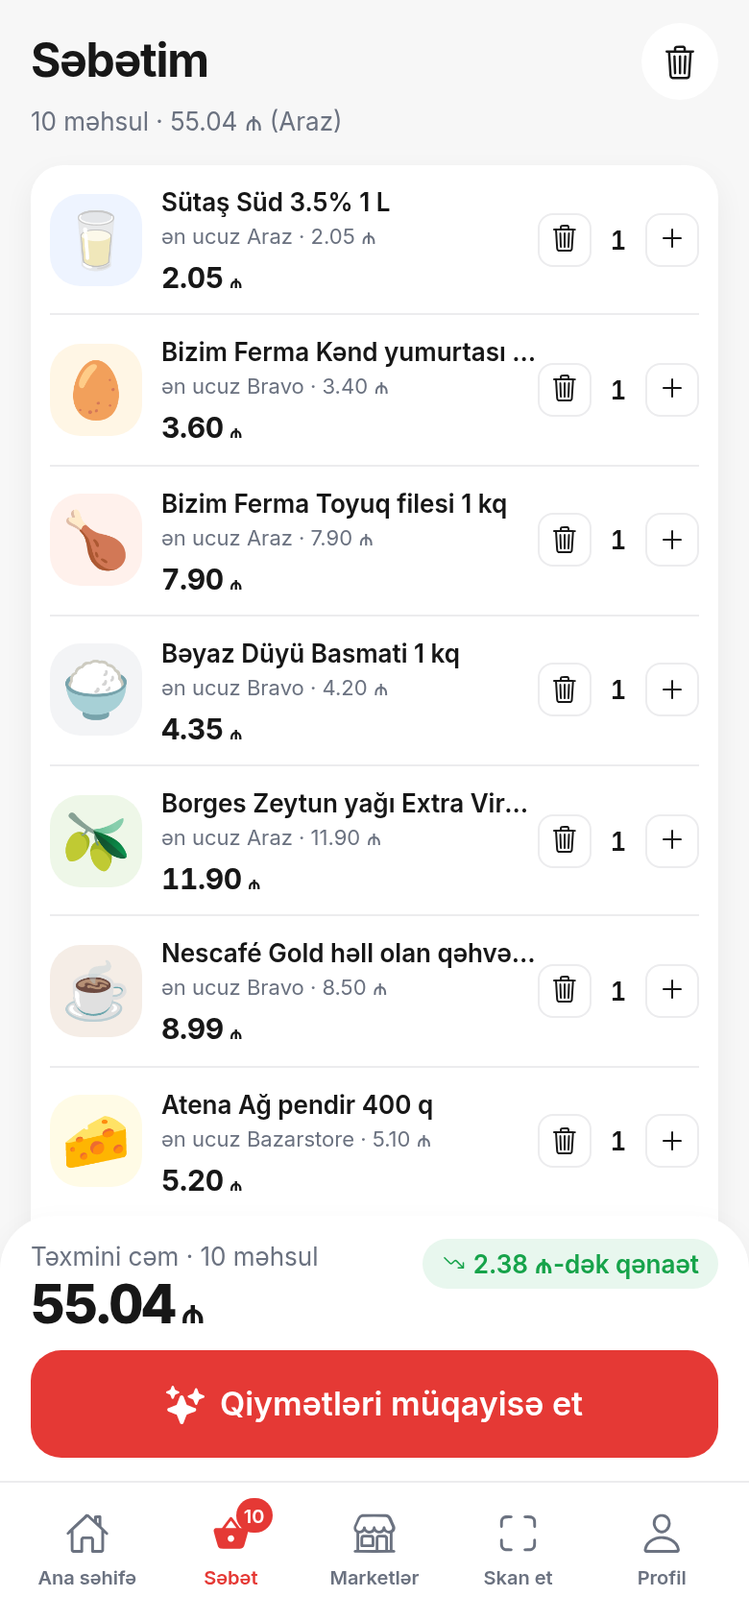
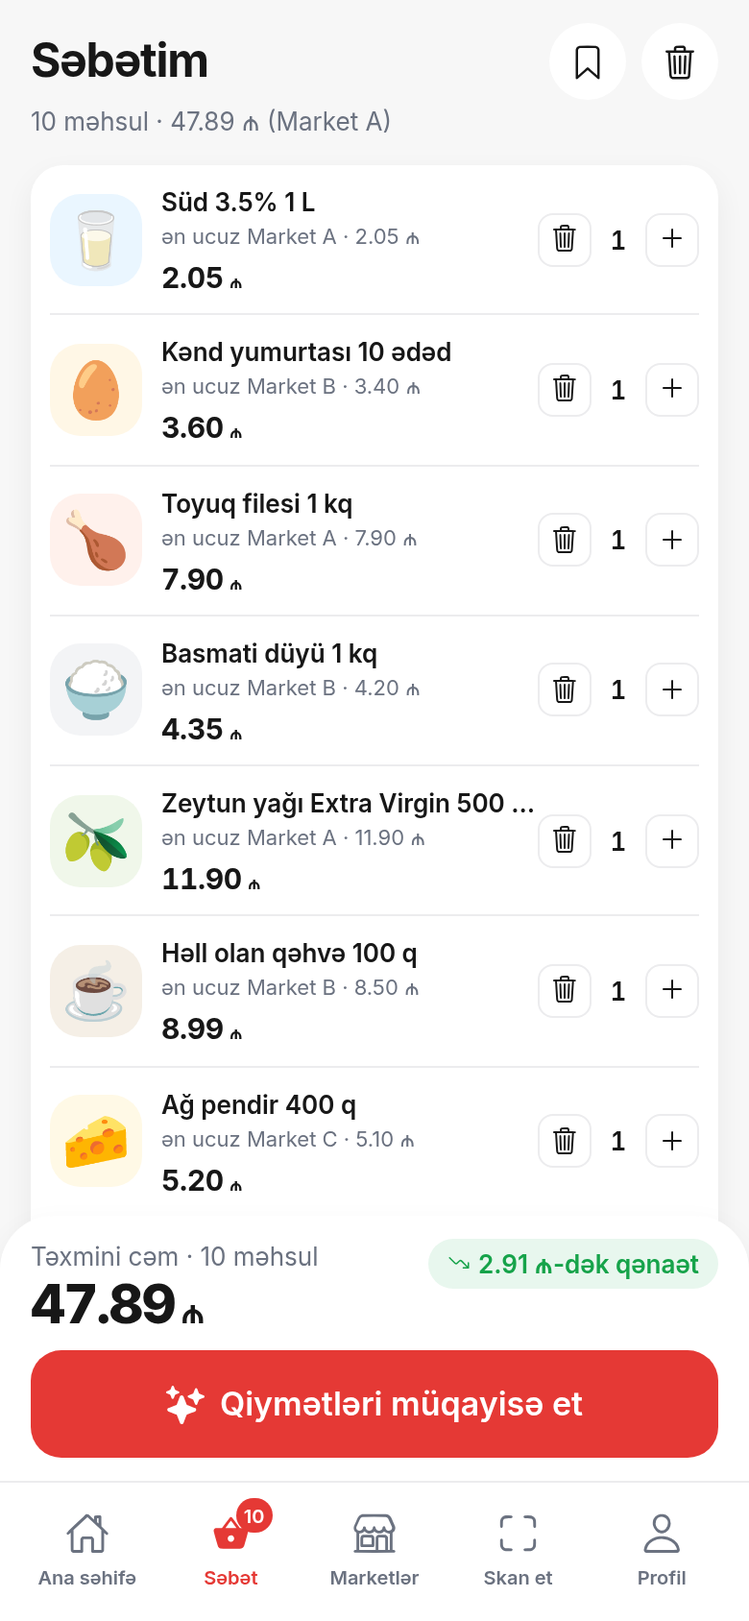
Cheap Market rename, neutral site screenshots, new pricing/FAQ, products-only import (#33)
* Import: products-only mode for catalogue sites (no store, no price)

Claude-Session: https://claude.ai/code/session_016RY9PY7tDUtHpYKm6AD4bC

* Brand rename to Cheap Market, neutral site screenshots, refreshed pricing and FAQ

- Display name Cheap Basket -> Cheap Market across app, admin, website, docs
  (bundle ids, scheme, SKUs and EAS slug unchanged)
- storeLabel(): no doubled "Market" suffix for stores whose name already contains it
- RealMap web: EXPO_PUBLIC_STATIC_MAP=1 renders the drawn MiniMap (screenshot builds)
- Website: screenshots regenerated with neutral "Market A-D" data, new OG image,
  FREE/PLUS feature lists and FAQ rewritten (AZ + EN), no chain names on the site

Claude-Session: https://claude.ai/code/session_016RY9PY7tDUtHpYKm6AD4bC

---------

diff --git a/website/components/content.ts b/website/components/content.ts
@@ -6,10 +6,10 @@ export const LINKS = {
   appStore: '#download',
   googlePlay: '#download',
   site: 'https://cheapmarket.app',
-  instagram: 'https://instagram.com/cheapbasket.az',
-  tiktok: 'https://tiktok.com/@cheapbasket.az',
-  linkedin: 'https://linkedin.com/company/cheapbasket',
-  email: 'mailto:hello@cheapbasket.az',
+  instagram: 'https://instagram.com/cheapmarket.az',
+  tiktok: 'https://tiktok.com/@cheapmarket.az',
+  linkedin: 'https://linkedin.com/company/cheapmarket',
+  email: 'mailto:hello@cheapmarket.app',
 };
 
 const az = {
@@ -19,14 +19,14 @@ const az = {
     h1a: 'Alış-verişə getməzdən əvvəl ',
     h1b: 'ən sərfəli marketi',
     h1c: ' tap.',
-    p: 'Almaq istədiyin məhsulları səbətə əlavə et. Cheap Basket qiymətləri müqayisə etsin və sənə ən sərfəli marketi göstərsin.',
+    p: 'Almaq istədiyin məhsulları səbətə əlavə et. Cheap Market qiymətləri müqayisə etsin və sənə ən sərfəli marketi göstərsin.',
   },
   how: {
     h2: 'Necə işləyir?',
     sub: '3 sadə addımda daha ağıllı alış-veriş et.',
     steps: [
       ['Səbətini yarat', 'Almaq istədiyin məhsulları axtar və ya barkodunu skan edib səbətinə əlavə et.'],
-      ['Qiymətləri müqayisə et', 'Cheap Basket səbətindəki bütün məhsulların qiymətini marketlər üzrə analiz edir.'],
+      ['Qiymətləri müqayisə et', 'Cheap Market səbətindəki bütün məhsulların qiymətini marketlər üzrə analiz edir.'],
       ['Ən sərfəli marketi tap', 'Bütün səbət üçün ən sərfəli marketi və sənə ən yaxın filialı xəritədə gör.'],
     ],
   },
@@ -34,7 +34,7 @@ const az = {
     h2a: '10 məhsul.',
     h2b: '4 market.',
     h2c: '1 ən sərfəli seçim.',
-    p: 'Cheap Basket səbətindəki bütün məhsulları müqayisə edir və sənə "bu məhsul burada ucuzdur" yox, "sənin səbətin üçün ən sərfəli market budur" deyir.',
+    p: 'Cheap Market səbətindəki bütün məhsulları müqayisə edir və sənə "bu məhsul burada ucuzdur" yox, "sənin səbətin üçün ən sərfəli market budur" deyir.',
     cta: 'Tətbiqi yüklə',
   },
   benefits: [
@@ -45,30 +45,33 @@ const az = {
   ],
   pricing: {
     h2: 'Sənin üçün uyğun seçim',
-    sub: 'Sadə başla. İstəsən daha çox qənaət et.',
+    sub: 'Pulsuz başla. Plus ilə tətbiq sənin yerinə qiymətləri izləsin.',
     free: 'FREE',
     freePrice: '0 ₼',
     freePer: '/ həmişə',
-    freeItems: ['1 səbət', 'Qiymət müqayisəsi', 'Ən sərfəli market', 'Yaxın filial', 'Barkod skanı'],
+    freeItems: ['1 aktiv səbət + 1 yadda saxlanılan siyahı', 'Bütün səbət üçün qiymət müqayisəsi', 'Ən sərfəli market və ən yaxın filial', 'Xəritə, iş saatları və marşrut', 'Barkod skanı marketin içində', 'Gündə 1 dəfə şəkillə məhsul tanıma', 'Xal topla, dostunu dəvət et'],
     freeCta: 'Pulsuz başla',
     plus: 'PLUS',
     plusPer: '/ ay',
     plusYearly: `və ya ${PRICING.plusYearly} / il`,
-    plusItems: ['Limitsiz səbət', 'Qiymət tarixçəsi', 'Qiymət düşüşü bildirişi', 'AI tövsiyələri', 'Qənaət statistikası'],
+    plusItems: ['Limitsiz səbət və siyahı', 'Hər səhər AI endirim xəbəri', 'Qiymət düşən kimi dərhal bildiriş', 'Qiymət tarixçəsi və qrafiklər', 'Tapılmayan məhsula əvəzedici təklif', 'Limitsiz şəkillə məhsul tanıma', 'Qənaət statistikası və alış-veriş tarixçəsi', 'AI köməkçisi: büdcəyə görə səbət'],
     plusCta: 'Plus-a keç',
     popular: 'ƏN POPULYAR',
   },
   faq: {
     h2: 'Tez-tez verilən suallar',
     items: [
-      ['Hansı marketlər var?', 'Hazırda Araz, Bravo, Neptun və Bazarstore. Yeni marketlər mütəmadi əlavə olunur.'],
-      ['Qiymətlər nə qədər dəqiqdir?', 'Qiymətlər gündəlik yenilənir və hər məhsulda "son yenilənmə" vaxtı göstərilir.'],
-      ['Tətbiq pulsuzdur?', 'Bəli. Səbət yaratmaq, qiymətləri müqayisə etmək və ən sərfəli marketi tapmaq həmişə pulsuzdur. Plus əlavə funksiyalar üçündür.'],
-      ['Barkod skanı nə üçündür?', 'Marketin içində məhsulu skan edirsən, tətbiq dərhal deyir: burada almaq sərfəlidir, yoxsa başqa yerdə ucuzdur.'],
-      ['Hansı şəhərlərdə işləyir?', 'Bakı ilə başlayırıq. Filial xəritəsi lokasiyana görə ən yaxın marketi göstərir.'],
+      ['Niyə hər məhsulu yox, bütün səbəti müqayisə edirsiniz?', 'Çünki 10 məhsulu 4 fərqli marketdən almağa heç kim getmir. Cheap Market bütün səbətinin cəmini hər marketdə hesablayır və bir marketə göndərir — orada ən çox qənaət edirsən.'],
+      ['Səbətimdəki məhsul bir marketdə yoxdursa nə olur?', 'Tətbiq bunu açıq göstərir: "1 məhsul burada yoxdur". Plus istifadəçilərə isə eyni kateqoriyadan ən yaxın əvəzedici məhsulu təklif edir.'],
+      ['Qiymətlər haradan gəlir və endirimlər görünür?', 'Qiymətlər marketlərin rəsmi onlayn kataloqlarından avtomatik yenilənir. Endirimli qiymət ayrıca göstərilir və ən ucuz seçim həmişə endirim nəzərə alınmaqla hesablanır.'],
+      ['Marketin içindəyəm — tətbiq mənə necə kömək edir?', 'Barkodu skan et və ya məhsulun şəklini çək: tətbiq dərhal deyir ki, bu məhsul burada sərfəlidir, yoxsa başqa marketdə neçə qəpik ucuzdur.'],
+      ['Plus nə üçün lazımdır? Pulsuz versiya kifayət deyil?', 'Pulsuz versiya ilə ən sərfəli marketi tapırsan. Plus isə səni "gözləyir": qiymət düşən kimi bildiriş göndərir, hər səhər AI endirim xəbəri yazır, limitsiz səbət və qiymət tarixçəsi verir. Bir aylıq Plus adətən bir alış-verişdə özünü çıxarır.'],
+      ['Xal sistemi necə işləyir?', 'Marşruta gedəndə, dost dəvət edəndə və tətbiqi işlədəndə xal toplayırsan. 300 xal = 7 gün pulsuz Plus. Dəvət kodunla gələn dostun da xal qazanır.'],
+      ['Hansı marketlər və şəhərlər var?', 'Bakının ən böyük market şəbəkələri ilə başlayırıq və hər həftə yeni market və filiallar əlavə olunur. Filial xəritəsi lokasiyana görə ən yaxın açıq marketi göstərir.'],
+      ['Məlumatlarım təhlükəsizdirmi?', 'Lokasiyanı yalnız ən yaxın filialı tapmaq üçün istifadə edirik və onu saxlamırıq. Hesabını istənilən vaxt Profil → Hesab bölməsindən tam silə bilərsən.'],
     ],
   },
-  download: { h2: 'Cheap Basket-i indi yüklə', p: 'Daha ağıllı alış-verişə bu gün başla.', web: 'Web versiyasını aç' },
+  download: { h2: 'Cheap Market-i indi yüklə', p: 'Daha ağıllı alış-verişə bu gün başla.', web: 'Web versiyasını aç' },
   footer: {
     tagline: 'Daha ağıllı alış-veriş.\nDaha çox qənaət.',
     info: 'Məlumat',
@@ -88,14 +91,14 @@ const en: typeof az = {
     h1a: 'Find the ',
     h1b: 'cheapest supermarket',
     h1c: ' before you go.',
-    p: 'Add what you need to your basket. Cheap Basket compares prices across supermarkets and tells you where the whole basket costs least.',
+    p: 'Add what you need to your basket. Cheap Market compares prices across supermarkets and tells you where the whole basket costs least.',
   },
   how: {
     h2: 'How it works',
     sub: 'Smarter shopping in 3 simple steps.',
     steps: [
       ['Build your basket', 'Search products or scan a barcode and add them to your basket.'],
-      ['Compare prices', 'Cheap Basket analyses every item in your basket across all supermarkets.'],
+      ['Compare prices', 'Cheap Market analyses every item in your basket across all supermarkets.'],
       ['Find the cheapest store', 'See the best store for the whole basket and the nearest branch on the map.'],
     ],
   },
@@ -103,7 +106,7 @@ const en: typeof az = {
     h2a: '10 products.',
     h2b: '4 supermarkets.',
     h2c: '1 best choice.',
-    p: 'Cheap Basket does not just say "this item is cheaper there". It tells you which store is cheapest for your entire basket.',
+    p: 'Cheap Market does not just say "this item is cheaper there". It tells you which store is cheapest for your entire basket.',
     cta: 'Get the app',
   },
   benefits: [
@@ -114,30 +117,33 @@ const en: typeof az = {
   ],
   pricing: {
     h2: 'A plan that fits you',
-    sub: 'Start simple. Save more when you want.',
+    sub: 'Start free. Let Plus watch the prices for you.',
     free: 'FREE',
     freePrice: '0 ₼',
     freePer: '/ forever',
-    freeItems: ['1 basket', 'Price comparison', 'Cheapest store', 'Nearest branch', 'Barcode scan'],
+    freeItems: ['1 active basket + 1 saved list', 'Whole-basket price comparison', 'Cheapest store and nearest branch', 'Map, opening hours and directions', 'In-store barcode scan', 'Photo product recognition, once a day', 'Earn points, invite friends'],
     freeCta: 'Start free',
     plus: 'PLUS',
     plusPer: '/ month',
     plusYearly: `or ${PRICING.plusYearly} / year`,
-    plusItems: ['Unlimited baskets', 'Price history', 'Price-drop alerts', 'AI recommendations', 'Savings statistics'],
+    plusItems: ['Unlimited baskets and lists', 'AI deal digest every morning', 'Instant alert when a price drops', 'Price history and charts', 'Substitutes for missing products', 'Unlimited photo recognition', 'Savings statistics and trip history', 'AI assistant: a basket for your budget'],
     plusCta: 'Go Plus',
     popular: 'MOST POPULAR',
   },
   faq: {
     h2: 'Frequently asked questions',
     items: [
-      ['Which supermarkets are covered?', 'Araz, Bravo, Neptun and Bazarstore today. New chains are added regularly.'],
-      ['How accurate are the prices?', 'Prices are refreshed daily and every product shows when it was last updated.'],
-      ['Is the app free?', 'Yes. Building a basket, comparing prices and finding the cheapest store is always free. Plus adds extra features.'],
-      ['What is the barcode scan for?', 'Scan a product in the store and the app tells you instantly whether buying it here is a good deal or cheaper elsewhere.'],
-      ['Which cities?', 'We start with Baku. The branch map shows the nearest store based on your location.'],
+      ['Why compare the whole basket instead of each product?', 'Because nobody visits four supermarkets to buy ten items. Cheap Market totals your entire basket at every store and sends you to the one where you save the most.'],
+      ['What if a product is missing at one store?', 'The app says so clearly: "1 item not available here". Plus members also get the closest substitute from the same category suggested automatically.'],
+      ['Where do the prices come from? Do you show discounts?', 'Prices are refreshed automatically from the supermarkets\' official online catalogues. Discounted prices are shown separately and the cheapest choice always takes discounts into account.'],
+      ['I am inside the store — how does the app help?', 'Scan the barcode or take a photo of the product: the app instantly tells you whether it is a good deal here or how much cheaper it is elsewhere.'],
+      ['Why Plus? Is the free version not enough?', 'Free finds you the cheapest store. Plus keeps watching for you: instant price-drop alerts, an AI deal digest every morning, unlimited baskets and price history. One month of Plus usually pays for itself in a single shop.'],
+      ['How do points work?', 'You earn points for following a route, inviting friends and using the app. 300 points = 7 days of Plus for free. Friends who join with your code earn points too.'],
+      ['Which supermarkets and cities?', 'We start with the biggest chains in Baku and add new stores and branches every week. The branch map shows the nearest open store based on your location.'],
+      ['Is my data safe?', 'Your location is used only to find the nearest branch and is never stored. You can delete your account completely at any time from Profile → Account.'],
     ],
   },
-  download: { h2: 'Get Cheap Basket now', p: 'Start shopping smarter today.', web: 'Open the web version' },
+  download: { h2: 'Get Cheap Market now', p: 'Start shopping smarter today.', web: 'Open the web version' },
   footer: {
     tagline: 'Smarter shopping.\nMore savings.',
     info: 'Info',

diff --git a/admin/app/import/page.tsx b/admin/app/import/page.tsx
@@ -33,6 +33,8 @@ export default function ImportPage() {
   const [onlyDiscount, setOnlyDiscount] = useState(false);
   /** Prices-only: match Wolt items to products already in the catalogue (barcode, then name) and write just the prices. */
   const [pricesOnly, setPricesOnly] = useState(false);
+  /** Products-only: create/update products without writing any price (catalogue sites that are not a store). */
+  const [productsOnly, setProductsOnly] = useState(false);
   const [msg, setMsg] = useState<{ ok: boolean; text: string } | null>(null);
   const [busy, setBusy] = useState(false);
   const [existing, setExisting] = useState<Product[]>([]);
@@ -62,7 +64,7 @@ export default function ImportPage() {
           return {
             ...it,
             key: it.ext_id,
-            selected: it.price != null,
+            selected: it.price != null || productsOnly,
             appCategory: it.category && catNames.includes(it.category) ? it.category : mapCategory(it.category, it.name, catNames),
             existingId: match(it),
             updateInfo: false,
@@ -90,6 +92,7 @@ export default function ImportPage() {
 
   const num = (v: string) => (v.trim() === '' ? null : Number(v.replace(',', '.')));
   const valid = (r: Row) => {
+    if (productsOnly) return r.title.trim() !== '';
     const p = num(r.priceText);
     const d = num(r.discountText);
     return p != null && !Number.isNaN(p) && p > 0 && (d == null || (!Number.isNaN(d) && d > 0 && d < p)) && r.title.trim() !== '';
@@ -125,13 +128,13 @@ export default function ImportPage() {
   };
 
   const importSelected = async () => {
-    if (!storeId) { setMsg({ ok: false, text: 'Əvvəlcə market seç.' }); return; }
-    const storeName = stores.find((s) => s.id === storeId)?.name ?? storeId;
+    if (!storeId && !productsOnly) { setMsg({ ok: false, text: 'Əvvəlcə market seç (və ya "Yalnız məhsullar" rejimini seç).' }); return; }
+    const storeName = productsOnly ? 'qiymətsiz' : stores.find((s) => s.id === storeId)?.name ?? storeId;
     const newCount = selected.filter((r) => !r.existingId).length;
     const infoCount = selected.filter((r) => r.existingId && r.updateInfo).length;
     const priceOnly = selected.length - newCount - infoCount;
     const plan = [
-      newCount ? `${newCount} yeni məhsul yaradılacaq (ad, kateqoriya, şəkil + ${storeName} qiyməti)` : null,
+      newCount ? (productsOnly ? `${newCount} yeni məhsul yaradılacaq (ad, kateqoriya, şəkil; qiymət yazılmır)` : `${newCount} yeni məhsul yaradılacaq (ad, kateqoriya, şəkil + ${storeName} qiyməti)`) : null,
       priceOnly ? `${priceOnly} mövcud məhsulun YALNIZ ${storeName} qiyməti yazılacaq` : null,
       infoCount ? `${infoCount} mövcud məhsulun məlumatı (ad, ölçü, kateqoriya, şəkil) da Wolt-dakı ilə əvəz olunacaq` : null,
     ].filter(Boolean).join('\n• ');
@@ -165,6 +168,7 @@ export default function ImportPage() {
           // no photo in our catalogue yet → take Wolt's (never replaces an existing photo)
           else if (!r.updateInfo && r.image_url && !fresh.find((p) => p.id === id)?.image_url && !photoUpdates.some((u) => u.id === id)) photoUpdates.push({ id, image_url: r.image_url });
         }
+        if (productsOnly || num(r.priceText) == null) continue; // no price to write
         // one price row per product (a duplicate barcode in the venue keeps the first / cheaper price)
         const prev = priceById.get(id);
         const candidate = { product_id: id, store_id: storeId, price: num(r.priceText), discount_price: num(r.discountText), updated_at: now };
@@ -202,15 +206,19 @@ export default function ImportPage() {
           {stores.length === 0 && <option value="">Market yoxdur</option>}
           {stores.map((s) => <option key={s.id} value={s.id}>{s.name}</option>)}
         </select>
+        <label style={{ display: 'flex', gap: 6, alignItems: 'center', fontSize: 13, whiteSpace: 'nowrap' }} title="Sayt market deyilsə: məhsulları (ad, şəkil, barkod, kateqoriya) yarat, qiymət yazma; qiymətləri sonra Wolt mənbələri və ya əl ilə doldur">
+          <input type="checkbox" checked={productsOnly} onChange={(e) => { setProductsOnly(e.target.checked); if (e.target.checked) setPricesOnly(false); }} style={{ width: 'auto' }} /> Yalnız məhsullar
+        </label>
         <label style={{ display: 'flex', gap: 6, alignItems: 'center', fontSize: 13, whiteSpace: 'nowrap' }} title="Yeni məhsul yaratmır; yalnız bazada olan məhsulların bu marketdəki qiymətini yazır">
-          <input type="checkbox" checked={pricesOnly} onChange={(e) => { setPricesOnly(e.target.checked); if (e.target.checked) setRows(rows.map((r) => ({ ...r, selected: r.selected && !!r.existingId }))); }} style={{ width: 'auto' }} /> Yalnız qiymətlər
+          <input type="checkbox" checked={pricesOnly} onChange={(e) => { setPricesOnly(e.target.checked); if (e.target.checked) { setProductsOnly(false); setRows(rows.map((r) => ({ ...r, selected: r.selected && !!r.existingId }))); } }} style={{ width: 'auto' }} /> Yalnız qiymətlər
         </label>
         <button className="btn secondary" disabled={loading || !url} onClick={load}><Download size={14} /> {loading ? 'Yüklənir…' : 'Məhsulları çək'}</button>
-        <button className="btn" disabled={!selected.length || busy || !storeId} onClick={importSelected}>{busy ? 'Yazılır…' : `Seçilənləri import et (${selected.length})`}</button>
+        <button className="btn" disabled={!selected.length || busy || (!storeId && !productsOnly)} onClick={importSelected}>{busy ? 'Yazılır…' : `Seçilənləri import et (${selected.length})`}</button>
       </div>
       <p className="note">
         Wolt linki və ya istənilən market saytının səhifəsini yapışdır. Wolt API ilə, digər saytlar səhifədəki strukturlu məlumatla (JSON-LD/OpenGraph) oxunur; o yoxdursa səhifə mətni AI-a verilir (səhifə başına ≈ 0.01 $, OPENAI_API_KEY lazımdır). Yalnız JavaScript ilə yüklənən səhifələr oxunmur. Soldakı siyahıdan hansı marketə yazılacağını seç (məs. Wolt Market özü ayrıca market kimi "Marketlər" səhifəsində əlavə oluna bilər, Araz/Bravo filialının Wolt səhifəsi isə həmin markete yazılır).
         Yazmazdan əvvəl brend, ad, ölçü, kateqoriya və qiymətləri cədvəldə düzəldə bilərsən. Bazada olan məhsul (barkod və ya eyni ad üzrə) təkrar yaradılmır, yalnız qiyməti yenilənir.
+        <b> "Yalnız məhsullar"</b> rejimi market olmayan kataloq saytları üçündür: məhsul yaranır, qiymət yazılmır, qiymətləri sonra hər marketin öz mənbəyindən ("Avtomatik yeniləmə") və ya əl ilə doldurursan.
         <b> "Yalnız qiymətlər"</b> rejimi digər marketlərin Wolt səhifəsi üçündür: yeni məhsul yaratmır, yalnız artıq bazada olan məhsulların seçdiyin marketdəki qiymətini yazır. Wolt qiymətləri mağaza rəfindəki qiymətdən fərqlənə bilər.
       </p>
 
@@ -220,7 +228,7 @@ export default function ImportPage() {
             <span><b>{selected.filter((r) => !r.existingId).length}</b> yeni məhsul + qiymət</span>
             <span><b>{selected.filter((r) => r.existingId && !r.updateInfo).length}</b> mövcud məhsul · yalnız qiymət</span>
             <span><b>{selected.filter((r) => r.existingId && r.updateInfo).length}</b> mövcud məhsul · məlumat + qiymət</span>
-            <span className="muted">→ {stores.find((s) => s.id === storeId)?.name ?? 'market seçilməyib'}</span>
+            <span className="muted">→ {productsOnly ? 'yalnız məhsullar, qiymət yazılmır' : stores.find((s) => s.id === storeId)?.name ?? 'market seçilməyib'}</span>
           </div>
           <div className="toolbar" style={{ marginTop: 14 }}>
             <Search size={16} className="muted" />

diff --git a/app/product/[id].tsx b/app/product/[id].tsx
@@ -62,15 +62,15 @@ export default function ProductScreen() {
   /** System share sheet: cheapest price + link to the web version of this product. */
   const share = async () => {
     const url = SITE_URL;
-    const message = c.price != null ? `${product.brand} ${product.name} ${product.size} — ən ucuz ${c.store.name}-da ${c.price.toFixed(2)} ₼. Cheap Basket ilə müqayisə et: ${url}` : `${product.brand} ${product.name} ${product.size} — Cheap Basket: ${url}`;
+    const message = c.price != null ? `${product.brand} ${product.name} ${product.size} — ən ucuz ${c.store.name}-da ${c.price.toFixed(2)} ₼. Cheap Market ilə müqayisə et: ${url}` : `${product.brand} ${product.name} ${product.size} — Cheap Market: ${url}`;
     try {
       if (Platform.OS === 'web' && typeof navigator !== 'undefined' && (navigator as Navigator & { share?: (d: { title: string; text: string; url: string }) => Promise<void> }).share) {
-        await (navigator as Navigator & { share: (d: { title: string; text: string; url: string }) => Promise<void> }).share({ title: 'Cheap Basket', text: message, url });
+        await (navigator as Navigator & { share: (d: { title: string; text: string; url: string }) => Promise<void> }).share({ title: 'Cheap Market', text: message, url });
       } else if (Platform.OS === 'web' && typeof navigator !== 'undefined' && navigator.clipboard) {
         await navigator.clipboard.writeText(message);
         notify('Kopyalandı', 'Məhsul linki panoya kopyalandı.');
       } else {
-        await Share.share({ message, url, title: 'Cheap Basket' });
+        await Share.share({ message, url, title: 'Cheap Market' });
       }
     } catch {
       /* user dismissed */

diff --git a/app/onboarding.tsx b/app/onboarding.tsx
@@ -10,7 +10,7 @@ import { useAuth } from '@/store/auth';
 
 const SLIDES = [
   { key: '1', line1: 'Səbətini', line2: 'yarat', body: 'Almaq istədiyin məhsulları səbətə at. Axtar, barkodu skan et və ya şəklini çək.', note: 'Sərin səbətin\nhəmişə yanında!', img: require('../assets/onboarding/1.png'), ratio: 327 / 470 },
-  { key: '2', line1: 'Qiymətləri', line2: 'müqayisə et', body: 'Eyni səbət müxtəlif marketlərdə neçədir? Cheap Basket sənin üçün hesablayır.', note: 'Sən seç,\nbiz müqayisə edək!', img: require('../assets/onboarding/2.png'), ratio: 328 / 505 },
+  { key: '2', line1: 'Qiymətləri', line2: 'müqayisə et', body: 'Eyni səbət müxtəlif marketlərdə neçədir? Cheap Market sənin üçün hesablayır.', note: 'Sən seç,\nbiz müqayisə edək!', img: require('../assets/onboarding/2.png'), ratio: 328 / 505 },
   { key: '3', line1: 'Ən sərfəli', line2: 'marketi tap', body: 'Sənə ən yaxın filialı xəritədə görürsən, marşruta bax və rahat alış-veriş et. Qiymət düşəndə xəbər veririk.', note: 'Daha ağıllı al,\ndaha çox qənaət et!', img: require('../assets/onboarding/3.png'), ratio: 330 / 435 },
 ];
 
@@ -49,7 +49,7 @@ export default function Onboarding() {
           <LogoMark size={40} />
           <View>
             <Txt style={{ fontFamily: fonts.bold, fontSize: 16, lineHeight: 18 }}>Cheap</Txt>
-            <Txt style={{ fontFamily: fonts.bold, fontSize: 16, lineHeight: 18 }}>Basket</Txt>
+            <Txt style={{ fontFamily: fonts.bold, fontSize: 16, lineHeight: 18 }}>Market</Txt>
           </View>
         </Row>
         {!last ? (

diff --git a/src/components/RealMap.tsx b/src/components/RealMap.tsx
@@ -1,6 +1,10 @@
 import React from 'react';
 import { View } from 'react-native';
 import { Branch, catalog } from '@/data/products';
+import { MiniMap } from './MiniMap';
+
+/** Screenshot/demo builds render the drawn map instead of the Google embed (no network, no map labels). */
+const STATIC_MAP = process.env.EXPO_PUBLIC_STATIC_MAP === '1';
 
 /**
  * Web build: Google Maps embed (no API key). Shows the selected branch pin; the native build
@@ -8,6 +12,13 @@ import { Branch, catalog } from '@/data/products';
  */
 export function RealMap({ width, height, branch, interactive = true, radius = 0 }: { width: number; height: number; branch: Branch; others?: Branch[]; interactive?: boolean; radius?: number }) {
   const me = catalog.location;
+  if (STATIC_MAP) {
+    return (
+      <View style={{ width, height, borderRadius: radius, overflow: 'hidden' }} pointerEvents={interactive ? 'auto' : 'none'}>
+        <MiniMap width={width} height={height} branch={branch} labels={false} />
+      </View>
+    );
+  }
   const src = `https://www.google.com/maps?q=${branch.lat},${branch.lng}&z=15&hl=az&output=embed`;
   return (
     <View style={{ width, height, borderRadius: radius, overflow: 'hidden', backgroundColor: '#EAF0EA' }} pointerEvents={interactive ? 'auto' : 'none'}>

diff --git a/src/components/ResultSheet.tsx b/src/components/ResultSheet.tsx
@@ -6,6 +6,7 @@ import { colors, radius, space } from '@/theme';
 import { Btn, Pill, Price, Row, Txt } from './ui';
 import { StoreAvatar } from './product';
 import { useBasket } from '@/store/basket';
+import { storeLabel } from '@/data/products';
 
 /**
  * AI result bottom sheet (from the design): one best store for the whole basket.
@@ -68,12 +69,12 @@ export function ResultSheet({ visible, onClose, onShowMap }: { visible: boolean;
             <Row gap={space.sm} style={{ marginTop: 6 }}>
               <StoreAvatar store={best.store} size={28} />
               <Txt v="display" style={{ fontSize: 28, lineHeight: 34 }}>
-                {best.store.name} Market
+                {storeLabel(best.store)}
               </Txt>
             </Row>
             <Price value={best.total} size="xl" style={{ marginTop: 4 }} />
             <Txt v="caption" color={colors.gray} center style={{ marginTop: space.sm }}>
-              {count} məhsullu səbətin üçün {best.store.name} Market daha sərfəlidir.
+              {count} məhsullu səbətin üçün {storeLabel(best.store)} daha sərfəlidir.
             </Txt>
             {best.missing.length > 0 && (
               <Txt v="caption" color={colors.warning} center style={{ marginTop: 4 }}>

diff --git a/app/(tabs)/profile.tsx b/app/(tabs)/profile.tsx
@@ -108,7 +108,7 @@ export default function Profile() {
         <Txt style={{ fontSize: 26, lineHeight: 32 }}>⭐</Txt>
         <View style={{ flex: 1, marginLeft: 12 }}>
           <Txt v="bodyStrong" color={colors.white}>
-            {isPlus ? 'Cheap Basket Plus aktivdir' : 'Cheap Basket Plus'}
+            {isPlus ? 'Cheap Market Plus aktivdir' : 'Cheap Market Plus'}
           </Txt>
           <Txt v="caption" color="rgba(255,255,255,0.75)" style={{ fontSize: 11 }}>
             {isPlus
@@ -177,7 +177,7 @@ export default function Profile() {
           Səbətini yarat. Ən sərfəli marketi tap. Get və al.
         </Txt>
         <Txt v="caption" color={colors.grayLight} style={{ fontSize: 11 }}>
-          Cheap Basket v1.0 · {cat.loading ? 'yüklənir…' : cat.error ? `xəta: ${cat.error}` : `${cat.stores.length} market · ${cat.products.length} məhsul`}
+          Cheap Market v1.0 · {cat.loading ? 'yüklənir…' : cat.error ? `xəta: ${cat.error}` : `${cat.stores.length} market · ${cat.products.length} məhsul`}
         </Txt>
       </View>
     </ScrollView>

diff --git a/website/app/layout.tsx b/website/app/layout.tsx
@@ -2,11 +2,11 @@ import type { Metadata } from 'next';
 import './globals.css';
 
 export const metadata: Metadata = {
-  title: 'Cheap Basket — Alış-verişə getməzdən əvvəl ən sərfəli marketi tap',
-  description: 'Səbətini yarat, qiymətləri müqayisə et, bütün səbət üçün ən sərfəli marketi və ən yaxın filialı tap. Araz, Bravo, Neptun, Bazarstore.',
+  title: 'Cheap Market — Alış-verişə getməzdən əvvəl ən sərfəli marketi tap',
+  description: 'Səbətini yarat, qiymətləri müqayisə et, bütün səbət üçün ən sərfəli marketi və ən yaxın filialı tap. Bakının böyük market şəbəkələri bir tətbiqdə.',
   metadataBase: new URL('https://cheapmarket.app'),
   openGraph: {
-    title: 'Cheap Basket — Səbətini yarat. Ən sərfəli marketi tap. Get və al.',
+    title: 'Cheap Market — Səbətini yarat. Ən sərfəli marketi tap. Get və al.',
     description: 'AI alış-veriş köməkçisi: bütün səbət üçün ən sərfəli market və ən yaxın filial.',
     images: ['/og.png'],
     locale: 'az_AZ',

diff --git a/admin/lib/digest.ts b/admin/lib/digest.ts
@@ -21,7 +21,7 @@ export function isDue(plus: boolean, settings: DigestSettings, now = new Date())
 }
 
 const SYSTEM =
-  'Sən "Cheap Basket" alış-veriş tətbiqinin bildiriş redaktorusan. Azərbaycan dilində, səmimi, qısa push bildirişi yaz. Yalnız JSON qaytar: {"title": "...", "body": "..."}. title ≤ 40 simvol, body ≤ 160 simvol, ən vacib 2-3 endirimi konkret qiymətlə qeyd et, sonda çağırış (məs. "Tətbiqdə bax"). Emoji az.';
+  'Sən "Cheap Market" alış-veriş tətbiqinin bildiriş redaktorusan. Azərbaycan dilində, səmimi, qısa push bildirişi yaz. Yalnız JSON qaytar: {"title": "...", "body": "..."}. title ≤ 40 simvol, body ≤ 160 simvol, ən vacib 2-3 endirimi konkret qiymətlə qeyd et, sonda çağırış (məs. "Tətbiqdə bax"). Emoji az.';
 
 const parseJson = (text: string, fallback: { title: string; body: string }) => {
   const m = text.match(/\{[\s\S]*\}/);

diff --git a/admin/app/api/push/route.ts b/admin/app/api/push/route.ts
@@ -24,7 +24,7 @@ export async function POST(req: Request) {
     let sent = 0;
     let errors = 0;
     for (let i = 0; i < tokens.length; i += 100) {
-      const chunk = tokens.slice(i, i + 100).map((to) => ({ to, title: title || 'Cheap Basket', body, sound: 'default', channelId: 'price-drops', data: url ? { url } : undefined }));
+      const chunk = tokens.slice(i, i + 100).map((to) => ({ to, title: title || 'Cheap Market', body, sound: 'default', channelId: 'price-drops', data: url ? { url } : undefined }));
       const res = await fetch('https://exp.host/--/api/v2/push/send', { method: 'POST', headers: { 'Content-Type': 'application/json', Accept: 'application/json' }, body: JSON.stringify(chunk) });
       const j = (await res.json()) as { data?: Array<{ status: string }> };
       for (const t of j.data ?? []) t.status === 'ok' ? sent++ : errors++;

diff --git a/app/(tabs)/markets.tsx b/app/(tabs)/markets.tsx
@@ -11,7 +11,7 @@ import { StateView } from '@/components/states';
 import { RealMap } from '@/components/RealMap';
 import { suggestSubstitute } from '@/lib/substitute';
 import { PlusTag } from '@/components/PlusLock';
-import { isOpenNow } from '@/data/products';
+import { isOpenNow, storeLabel } from '@/data/products';
 import { nearestBranch } from '@/data/products';
 import { useBasket } from '@/store/basket';
 
@@ -59,7 +59,7 @@ export default function Markets() {
         <Row gap={space.sm} style={{ marginTop: 12 }}>
           <StoreAvatar store={chosen.store} size={32} />
           <Txt v="title" style={{ fontSize: 20, lineHeight: 26 }}>
-            {chosen.store.name} Market
+            {storeLabel(chosen.store)}
           </Txt>
         </Row>
         <Price value={chosen.total} size="xl" style={{ marginTop: 4 }} />

diff --git a/app/referral.tsx b/app/referral.tsx
@@ -47,7 +47,7 @@ export default function Referral() {
 
   const share = async () => {
     if (!code) return;
-    const message = `Cheap Basket ilə səbətinin ən ucuz olduğu marketi tap 🧺 Dəvət kodum: ${code} — qeydiyyatdan sonra "Dəvət kodu" bölməsinə yaz, ikimiz də ${cfg.referral} xal qazanaq. ${SITE_URL}`;
+    const message = `Cheap Market ilə səbətinin ən ucuz olduğu marketi tap 🧺 Dəvət kodum: ${code} — qeydiyyatdan sonra "Dəvət kodu" bölməsinə yaz, ikimiz də ${cfg.referral} xal qazanaq. ${SITE_URL}`;
     try {
       if (Platform.OS === 'web' && typeof navigator !== 'undefined' && navigator.clipboard) {
         await navigator.clipboard.writeText(message);
